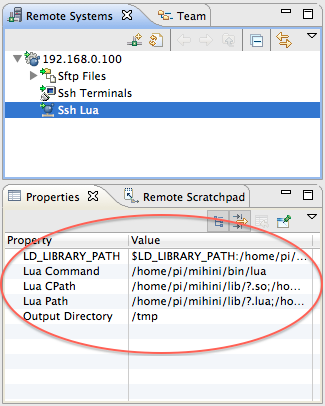
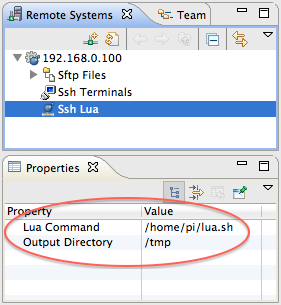
instructions on how to configure the remote mihini vm

diff --git a/slides/index_5d9f71b71b207b9e665820c0dce67bdb.html b/slides/index_5d9f71b71b207b9e665820c0dce67bdb.html
@@ -686,6 +686,22 @@ mdev:writeMultipleRegisters(1, 90, string.pack("H3",21,159,357))
 								</li>
 							</ul>
 						</section>
+						<section data-state="bg arduino hands-on">
+							<h2>Configure the remote Mihini VM</h2>
+							<div>
+								<img src="images/lab-screenshots/configure-remote-lua.png" alt="Remote VM configuration" />
+							</div>
+							<ul>
+								<li>
+									Lua Command:
+									<code>/home/pi/lua.sh</code>
+								</li>
+								<li>
+									Output Directory:
+									<code>/tmp</code>
+								</li>
+							</ul>
+						</section>
 					</section>
 					<section>
 						<section>
@@ -904,7 +920,7 @@ house:pushdata("bedroom", { temp=42, timestamp=os.time()}, "hourly")
 -- for development purpose (or debug),
 -- you may want to force data flushing from agent to server
 -- racon.triggerpolicy("hourly")
-                                                </code></pre>
+</code></pre>
 						</section>
 						<section>
 							<h3>Going Further</h3>
